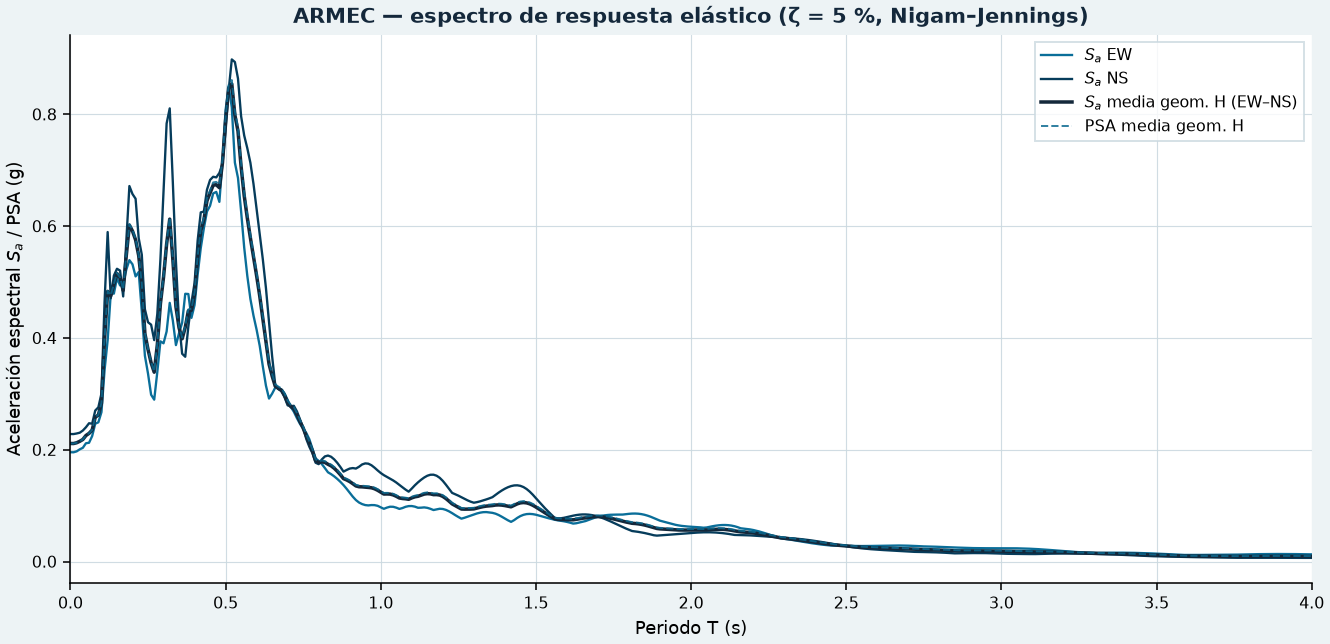
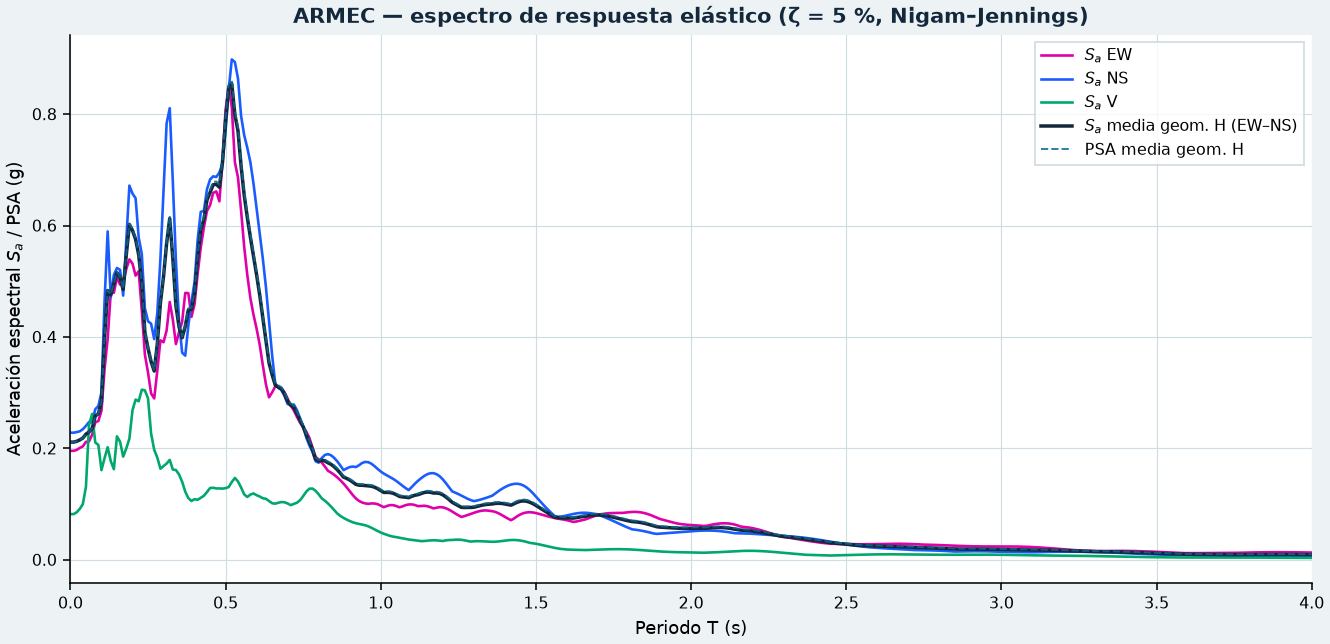
Use striking EW/NS/V colors on response spectra plots.
Magenta for EW, blue for NS, and green for vertical Sa; keep geometric-mean and PSA styling unchanged.

diff --git a/_generate_index_html.py b/_generate_index_html.py
@@ -59,6 +59,13 @@ _COLORS = {
     "fig_bg": "#edf3f5",
 }
 
+# Colores llamativos solo para espectros de respuesta
+_SPECTRUM_COLORS = {
+    "EW": "#e000a8",   # magenta
+    "NS": "#1a5cff",   # azul
+    "VER": "#00a86b",  # verde
+}
+
 
 def esc(x: str) -> str:
     return html.escape(str(x) if x is not None else "")
@@ -151,12 +158,14 @@ def plot_spectrum(code: str, atypical: bool) -> Path | None:
     T = T[mask]
     sa_ew = data["Sa_EW_g"][mask]
     sa_ns = data["Sa_NS_g"][mask]
+    sa_ver = data["Sa_VER_g"][mask]
     sa_geo = data["Sa_RotD50_approx_g"][mask]
     psa_geo = data["PSA_geo_mean_g"][mask]
 
     fig, ax = plt.subplots(figsize=(9.5, 4.6), constrained_layout=True)
-    ax.plot(T, sa_ew, color=_COLORS["EW"], linewidth=1.2, label=r"$S_a$ EW")
-    ax.plot(T, sa_ns, color=_COLORS["NS"], linewidth=1.2, label=r"$S_a$ NS")
+    ax.plot(T, sa_ew, color=_SPECTRUM_COLORS["EW"], linewidth=1.35, label=r"$S_a$ EW")
+    ax.plot(T, sa_ns, color=_SPECTRUM_COLORS["NS"], linewidth=1.35, label=r"$S_a$ NS")
+    ax.plot(T, sa_ver, color=_SPECTRUM_COLORS["VER"], linewidth=1.35, label=r"$S_a$ V")
     ax.plot(
         T,
         sa_geo,
